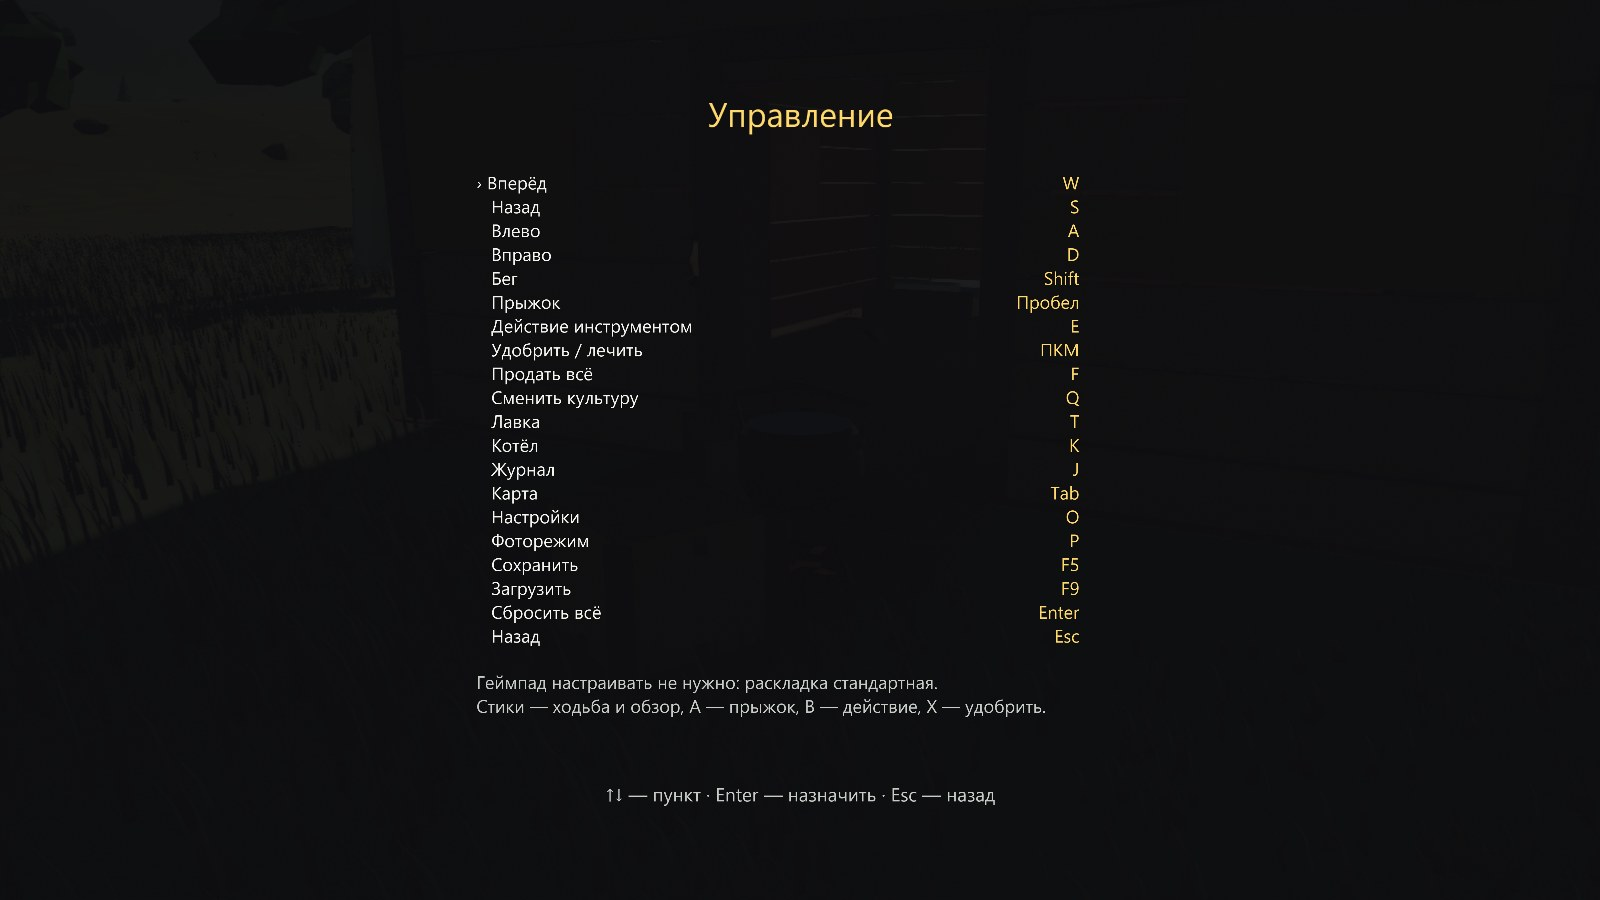
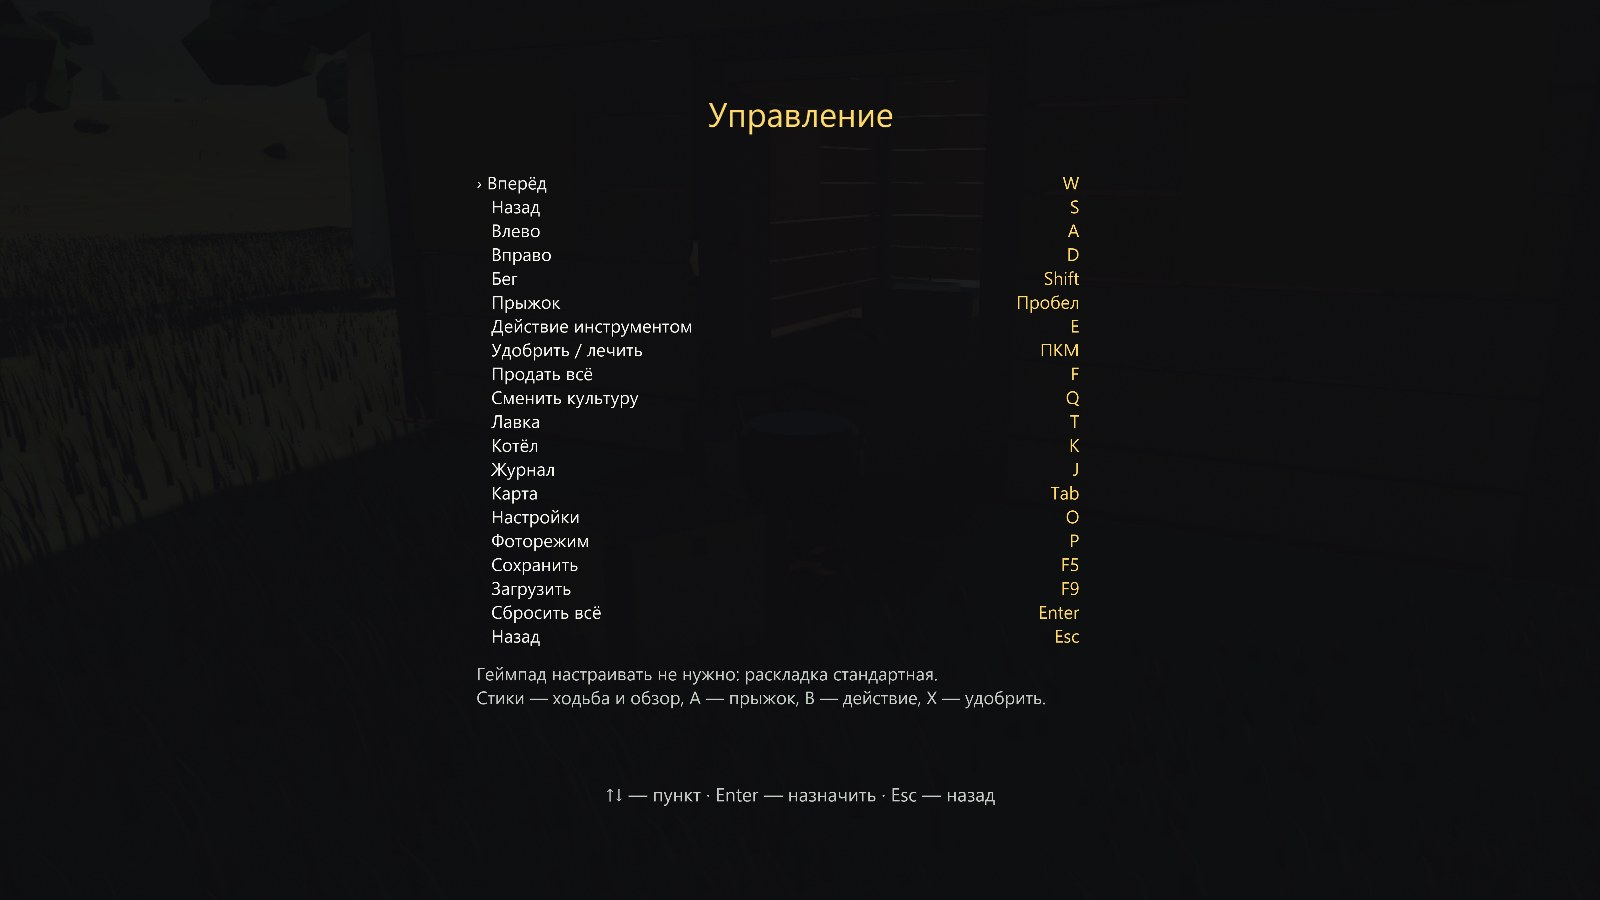
Patisson 2.0: the settings footnote stops crossing the menu
Player finding number ten: "немного текст пересекается". The settings
screen's footnote (resolution hint plus gamepad status) sat at a
hardcoded y=-0.14, while the menu's tenth row — at the font's real line
height — reaches -0.22. The two printed straight across each other.

The note now hangs below the menu's measured bottom on both pages,
computed from getNumRows and the font's line height after the text is
set (getTightBounds under-reports wrapped text, an old lesson here).
The keys page inherits the same derivation instead of its own magic
-0.53.

The layout check measures both pages by glyphs; on the old code it
fails with "подпись (-0.108) налезает на меню (низ -0.138)". Both
settings screenshots recommitted.

Changed region(s): [[0.2812, 0.7467, 0.6562, 0.8089]]

diff --git a/patisson2/ui/options.py b/patisson2/ui/options.py
@@ -189,19 +189,34 @@ class OptionsScreen:
         self.visible = False
         self.root.hide()
 
-    def _layout(self, scale: float, top: float, note_y: float) -> None:
+    def _layout(self, scale: float, top: float) -> None:
         """Both pages share the widgets, so re-lay them out on every switch."""
         for node, x, align in ((self.body, -0.72, None), (self.values, 0.62, None)):
             node.setScale(scale)
             node.setPos(x, top)
-        self.note.setPos(-0.72, note_y)
+
+    def _drop_note(self, gap: float = 0.07) -> None:
+        """Hang the note under the menu's measured bottom, not at a magic y.
+
+        It used to sit at a hardcoded -0.14 while the menu's tenth row,
+        at Segoe's real line height, reached -0.22: the resolution and
+        gamepad lines printed straight across «Управление… Enter» —
+        "немного текст пересекается", said the player. Call after the
+        body text is set, because the measurement needs the rows.
+        """
+        tn = self.body.textNode
+        scale = self.body.getScale()[0]
+        top = self.body.getPos()[1]
+        bottom = (top - (tn.getNumRows() - 1) * tn.getLineHeight() * scale
+                  - 0.35 * scale)
+        self.note.setPos(-0.72, bottom - gap)
 
     def refresh(self) -> None:
         if self.page == "keys":
             self._refresh_keys()
             return
         self.title.setText("Настройки")
-        self._layout(scale=0.052, top=0.50, note_y=-0.14)
+        self._layout(scale=0.052, top=0.50)
         pad = self.base.gamepad
         self.note.setText(
             "Разрешение задаётся при запуске:  python -m patisson2 --fullscreen"
@@ -215,11 +230,12 @@ class OptionsScreen:
             values.append(value)
         self.body.setText("\n".join(labels))
         self.values.setText("\n".join(values))
+        self._drop_note()
 
     def _refresh_keys(self) -> None:
         self.title.setText("Управление")
         # Eighteen rows will not fit at the main page's size; shrink and lift.
-        self._layout(scale=0.040, top=0.58, note_y=-0.53)
+        self._layout(scale=0.040, top=0.58)
         self.note.setText(
             "Геймпад настраивать не нужно: раскладка стандартная.\n"
             "Стики — ходьба и обзор, A — прыжок, B — действие, X — удобрить.")
@@ -233,3 +249,4 @@ class OptionsScreen:
                           self.rebindable()[i] == self.capturing) else value)
         self.body.setText("\n".join(labels))
         self.values.setText("\n".join(values))
+        self._drop_note()

diff --git a/patisson2/tools/smoke.py b/patisson2/tools/smoke.py
@@ -1295,6 +1295,36 @@ def run() -> int:
         app.farm.clear(p)
     check("грядки из земли, не из краски", beds_are_geometry)
 
+    def options_note_below_menu():
+        """The footnote must hang below the menu, not print across it.
+
+        The note sat at a hardcoded y=-0.14 while the tenth menu row, at
+        the font's real line height, reached -0.22 — the resolution and
+        gamepad lines ran straight across «Управление… Enter» on the
+        player's screen. Measure both pages by glyphs.
+        """
+        app.toggle_options()
+        try:
+            for page in ("main", "keys"):
+                if page == "keys":
+                    app.options.page = "keys"
+                app.options.refresh()
+                body = app.options.body
+                tn = body.textNode
+                scale = body.getScale()[0]
+                bottom = (body.getPos()[1]
+                          - (tn.getNumRows() - 1) * tn.getLineHeight() * scale
+                          - 0.35 * scale)
+                note_top = (app.options.note.getPos()[1]
+                            + 0.80 * app.options.note.getScale()[0])
+                assert note_top < bottom, \
+                    f"стр. {page}: подпись ({note_top:.3f}) налезает на " \
+                    f"меню (низ {bottom:.3f})"
+        finally:
+            app.options.page = "main"
+            app.toggle_options()
+    check("подпись настроек не налезает", options_note_below_menu)
+
     check("карта", lambda: (app.toggle_map(), app.taskMgr.step(), app.toggle_map()))
     check("переход по карте", lambda: (app.toggle_map(), app.worldmap.move(2),
                                        app.travel_to_selected()))

diff --git a/README.md b/README.md
@@ -93,7 +93,7 @@ python -m patisson2.tools.make_assets
 python -m patisson2.tools.shots
 ```
 
-Прогнать все действия игрока разом — 74 проверки, от вспашки до загрузки
+Прогнать все действия игрока разом — 75 проверок, от вспашки до загрузки
 сохранения. Тоже без окна, выходит с ненулевым кодом, если что-то сломалось.
 **Шестнадцать действий он выполняет клавишей**, встав и прицелившись туда же,
 куда встал бы игрок, и проверяет, что мир изменился, — а не что вызов не упал.
@@ -340,7 +340,11 @@ SSAO и лучи солнца выключаются, тени падают до
   затенения выключается целиком, а не просто игнорируется, трава меняет число
   инстансов на лету. Выбор пишется в `~/.patisson2/settings.json` и подхватывается
   при следующем запуске *до* сборки сцены, поэтому первый кадр уже такой, как
-  просили.
+  просили. *Служебная подпись внизу печаталась поперёк последней строки меню*
+  («немного текст пересекается» — игрок): она стояла на захардкоженном `y`, а
+  десятая строка при настоящем межстрочном интервале шрифта доставала ниже.
+  Теперь подпись вешается под измеренный низ меню на обеих страницах, и
+  проверка вёрстки на старом коде падает.
 - **Карта на `Tab`.** Рисуется из того же поля высот, что читает шейдер земли,
   и **из тех же списков, по которым расставлен мир**: каждое дерево из леса,
   оба дома со своими поворотами, грядки. Разойтись с миром она поэтому не
